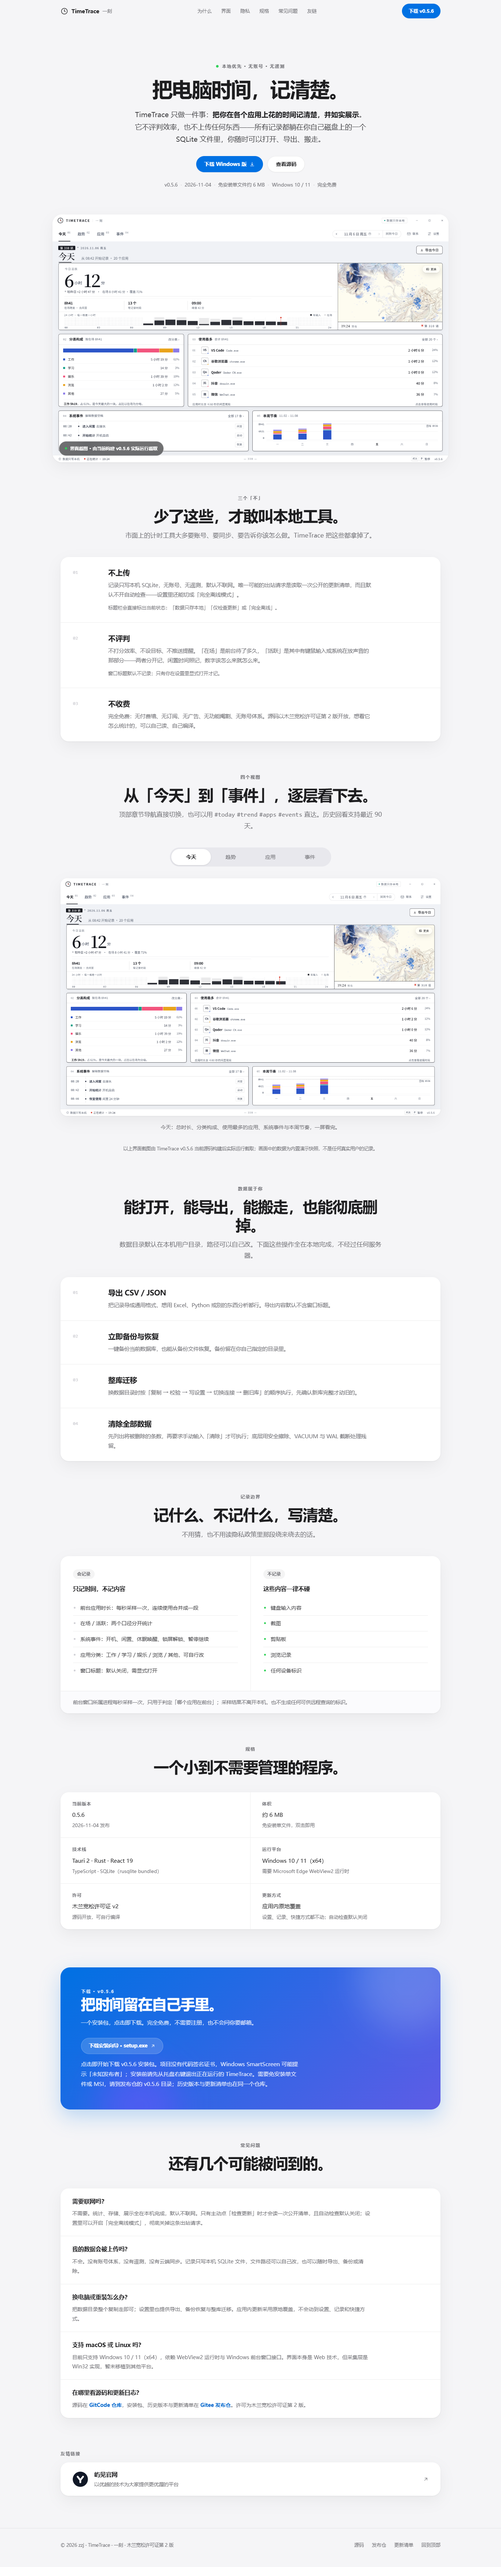
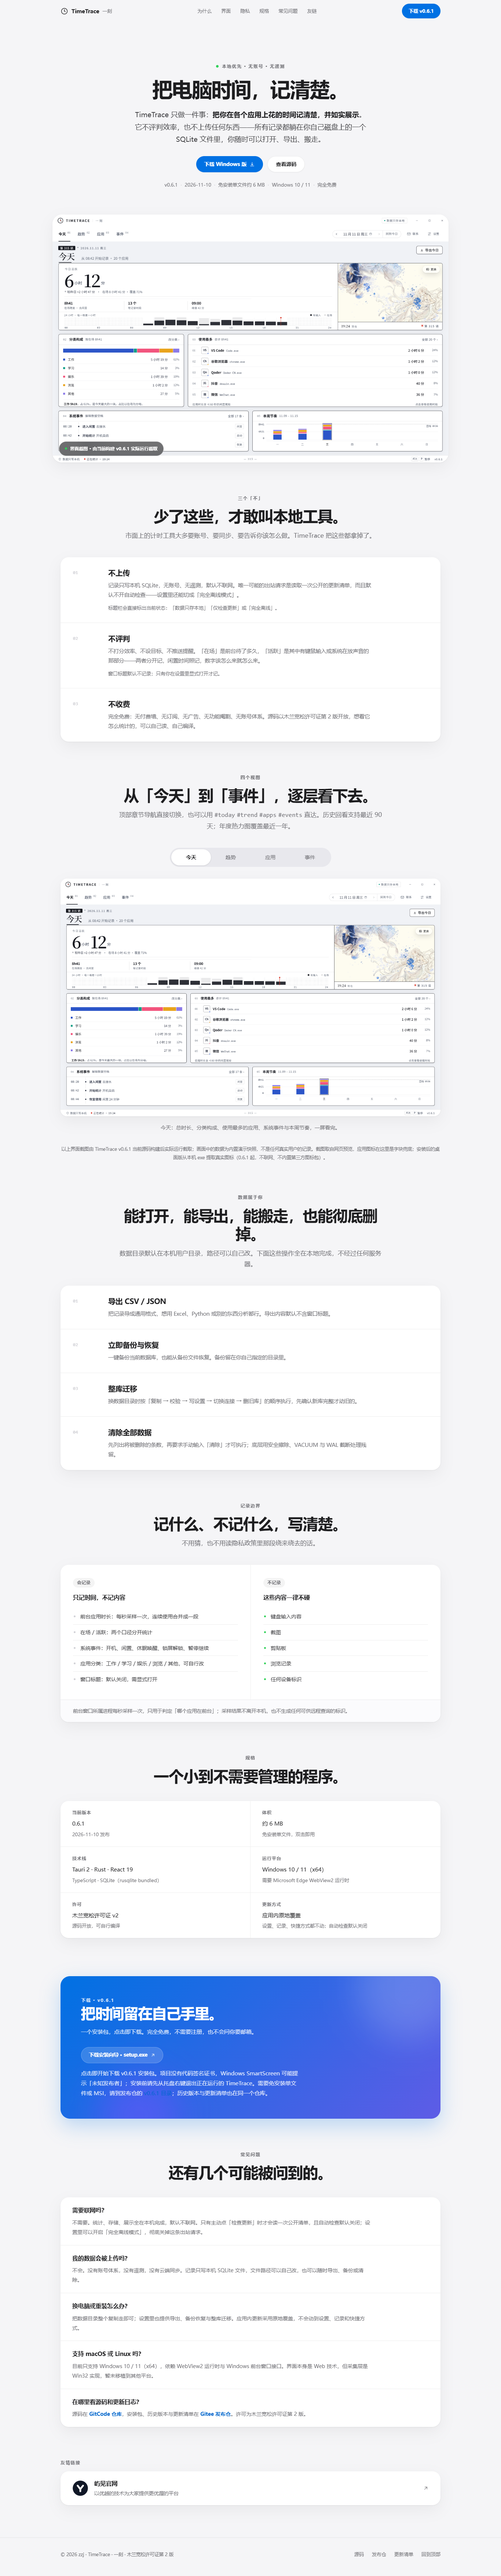
更新落地页到 v0.6.1：版本、直链、截图与发版门禁
- index.html：版本号、三处下载直链、发布仓目录链接、规格表、截图徽标
  统一到 0.6.1；补充网页预览下应用图标为字块兜底的诚实说明
- README.md / HANDOFF.md：线上地址表与「可核对事实」同步到 0.6.1
- assets/screens：从当前源码重建 dist 后重截四视图，状态栏 v0.6.1、pageerror 0
- screenshots：重截三档整页、首屏与友链特写
- _workflow/check_release.py：新增发版一致性硬断言，版本真源为 latest.json
- _workflow/sync_single_setup.py：直链改为从页面动态读取，修复写死 0.5.6 的假红；
  已改写的文档片段跳过且不重写，避免无关字节变化

验证：
- check_release 21/21 PASS；设计包 strict FAIL 0 / WARN 0 / PASS 7
- 三档视口 1366/1440/1920 无横向溢出、图片 6/6、交互切换正常、error 0
- 反向验证：改坏直链 → 断言变红 2 项，字节级恢复 → 变绿，sha256 前后一致
- v0.6.1 安装包直链实查 200 / 3,131,304 字节，SHA256 与 latest.json 一致

@author zzj

diff --git a/index.html b/index.html
@@ -276,7 +276,7 @@ footer{margin-top:var(--gap-section);border-top:1px solid var(--hairline);paddin
       <a href="#faq">常见问题</a>
       <a href="#friends">友链</a>
     </nav>
-    <a class="btn btn-primary" href="https://gitee.com/zzjzgz/time-trace-code/raw/master/releases/v0.6.0/TimeTrace_0.6.0_x64-setup.exe" target="_blank" rel="noopener noreferrer">下载 v0.6.0</a>
+    <a class="btn btn-primary" href="https://gitee.com/zzjzgz/time-trace-code/raw/master/releases/v0.6.1/TimeTrace_0.6.1_x64-setup.exe" target="_blank" rel="noopener noreferrer">下载 v0.6.1</a>
   </div>
 </header>
 
@@ -289,17 +289,17 @@ footer{margin-top:var(--gap-section);border-top:1px solid var(--hairline);paddin
       <h1 id="heroTitle">把电脑时间，记清楚。</h1>
       <p class="lede">TimeTrace 只做一件事：<strong>把你在各个应用上花的时间记清楚，并如实展示</strong>。它不评判效率，也不上传任何东西——所有记录都躺在你自己磁盘上的一个 SQLite 文件里，你随时可以打开、导出、搬走。</p>
       <div class="hero-actions">
-        <a class="btn btn-primary" href="https://gitee.com/zzjzgz/time-trace-code/raw/master/releases/v0.6.0/TimeTrace_0.6.0_x64-setup.exe" target="_blank" rel="noopener noreferrer">下载 Windows 版
+        <a class="btn btn-primary" href="https://gitee.com/zzjzgz/time-trace-code/raw/master/releases/v0.6.1/TimeTrace_0.6.1_x64-setup.exe" target="_blank" rel="noopener noreferrer">下载 Windows 版
           <svg viewBox="0 0 24 24" fill="none" stroke="currentColor" stroke-width="1.8" stroke-linecap="round" stroke-linejoin="round" aria-hidden="true"><path d="M12 3v12m0 0 4-4m-4 4-4-4M4 19h16"/></svg>
         </a>
         <a class="btn btn-quiet" href="https://gitcode.com/weixin_51713937/TimeTrace" target="_blank" rel="noopener noreferrer">查看源码</a>
       </div>
-      <p class="hero-meta num">v0.6.0<span class="sep">·</span>2026-11-10<span class="sep">·</span>免安装单文件约 6 MB<span class="sep">·</span>Windows 10 / 11<span class="sep">·</span>完全免费</p>
+      <p class="hero-meta num">v0.6.1<span class="sep">·</span>2026-11-10<span class="sep">·</span>免安装单文件约 6 MB<span class="sep">·</span>Windows 10 / 11<span class="sep">·</span>完全免费</p>
     </div>
     <figure class="hero-art lift">
-      <img src="assets/screens/today.png" width="1440" height="900" data-img alt="TimeTrace 0.6.0「今天」视图：今日总时长 6 时 12 分、分类构成、使用最多的应用、系统事件与本周节奏">
+      <img src="assets/screens/today.png" width="1440" height="900" data-img alt="TimeTrace 0.6.1「今天」视图：今日总时长 6 时 12 分、分类构成、使用最多的应用、系统事件与本周节奏">
       <div class="img-fallback" role="status"><span>界面预览未能加载。</span><a href="https://gitee.com/zzjzgz/time-trace-code" target="_blank" rel="noopener noreferrer">到发布仓查看版本说明</a></div>
-      <figcaption class="source-badge"><span class="mark" aria-hidden="true"></span>界面截图 · 由当前构建 v0.6.0 实际运行截取</figcaption>
+      <figcaption class="source-badge"><span class="mark" aria-hidden="true"></span>界面截图 · 由当前构建 v0.6.1 实际运行截取</figcaption>
     </figure>
   </section>
 
@@ -356,10 +356,10 @@ footer{margin-top:var(--gap-section);border-top:1px solid var(--hairline);paddin
       <img src="assets/screens/trend.png" width="1440" height="900" data-img alt="趋势视图（年）：年度活跃热力图、常用应用 Top 8、时段分布与全年分类构成">
       <img src="assets/screens/apps.png" width="1440" height="900" data-img alt="应用视图：按应用排行的时长列表">
       <img src="assets/screens/events.png" width="1440" height="900" data-img alt="事件视图：按时间顺序排列的系统事件流">
-      <div class="img-fallback" role="status"><span>界面预览未能加载。</span><a href="https://gitee.com/zzjzgz/time-trace-code/tree/master/releases/v0.6.0" target="_blank" rel="noopener noreferrer">到发布仓查看版本说明</a></div>
+      <div class="img-fallback" role="status"><span>界面预览未能加载。</span><a href="https://gitee.com/zzjzgz/time-trace-code/tree/master/releases/v0.6.1" target="_blank" rel="noopener noreferrer">到发布仓查看版本说明</a></div>
     </div>
     <p class="screen-cap" id="viewCap">今天：总时长、分类构成、使用最多的应用、系统事件与本周节奏，一屏看完。</p>
-    <p class="screen-note">以上界面截图由 TimeTrace v0.6.0 当前源码构建后实际运行截取；画面中的数据为内置演示快照，不是任何真实用户的记录。</p>
+    <p class="screen-note">以上界面截图由 TimeTrace v0.6.1 当前源码构建后实际运行截取；画面中的数据为内置演示快照，不是任何真实用户的记录。截图取自网页预览，应用图标在这里是字块兜底；安装后的桌面版从本机 exe 提取真实图标（0.6.1 起，不联网、不内置第三方图标包）。</p>
   </section>
 
   <!-- 数据属于你 -->
@@ -420,7 +420,7 @@ footer{margin-top:var(--gap-section);border-top:1px solid var(--hairline);paddin
       <h2 id="specTitle">一个小到不需要管理的程序。</h2>
     </div>
     <dl class="panel spec-grid">
-      <div class="spec-item"><dt>当前版本</dt><dd class="num">0.6.0<small>2026-11-10 发布</small></dd></div>
+      <div class="spec-item"><dt>当前版本</dt><dd class="num">0.6.1<small>2026-11-10 发布</small></dd></div>
       <div class="spec-item"><dt>体积</dt><dd>约 6 MB<small>免安装单文件，双击即用</small></dd></div>
       <div class="spec-item"><dt>技术栈</dt><dd>Tauri 2 · Rust · React 19<small>TypeScript · SQLite（rusqlite bundled）</small></dd></div>
       <div class="spec-item"><dt>运行平台</dt><dd>Windows 10 / 11（x64）<small>需要 Microsoft Edge WebView2 运行时</small></dd></div>
@@ -434,15 +434,15 @@ footer{margin-top:var(--gap-section);border-top:1px solid var(--hairline);paddin
     <div class="cta">
       <span class="orb orb-a" aria-hidden="true"></span><span class="orb orb-b" aria-hidden="true"></span>
       <div class="cta-in">
-        <div class="kicker">下载 · v0.6.0</div>
+        <div class="kicker">下载 · v0.6.1</div>
         <h2 id="downloadTitle">把时间留在自己手里。</h2>
         <p>一个安装包，点击即下载。完全免费，不需要注册，也不会问你要邮箱。</p>
         <div class="cta-actions">
-          <a class="glass-chip" href="https://gitee.com/zzjzgz/time-trace-code/raw/master/releases/v0.6.0/TimeTrace_0.6.0_x64-setup.exe" target="_blank" rel="noopener noreferrer">下载安装向导 · setup.exe
+          <a class="glass-chip" href="https://gitee.com/zzjzgz/time-trace-code/raw/master/releases/v0.6.1/TimeTrace_0.6.1_x64-setup.exe" target="_blank" rel="noopener noreferrer">下载安装向导 · setup.exe
             <svg viewBox="0 0 24 24" fill="none" stroke="currentColor" stroke-width="1.8" stroke-linecap="round" stroke-linejoin="round" aria-hidden="true"><path d="M7 17 17 7M8 7h9v9"/></svg>
           </a>
         </div>
-        <p class="cta-note">点击即开始下载 v0.6.0 安装包。项目没有代码签名证书，Windows SmartScreen 可能提示「未知发布者」；安装前请先从托盘右键退出正在运行的 TimeTrace。需要免安装单文件或 MSI，请到发布仓的 <a href="https://gitee.com/zzjzgz/time-trace-code/tree/master/releases/v0.6.0" target="_blank" rel="noopener noreferrer">v0.6.0 目录</a>；历史版本与更新清单也在同一个仓库。</p>
+        <p class="cta-note">点击即开始下载 v0.6.1 安装包。项目没有代码签名证书，Windows SmartScreen 可能提示「未知发布者」；安装前请先从托盘右键退出正在运行的 TimeTrace。需要免安装单文件或 MSI，请到发布仓的 <a href="https://gitee.com/zzjzgz/time-trace-code/tree/master/releases/v0.6.1" target="_blank" rel="noopener noreferrer">v0.6.1 目录</a>；历史版本与更新清单也在同一个仓库。</p>
       </div>
     </div>
   </section>

diff --git a/_workflow/check_release.py b/_workflow/check_release.py
@@ -1,0 +1,103 @@
+#!/usr/bin/env python3
+# -*- coding: utf-8 -*-
+"""发版一致性硬断言（可复跑，幂等，只读）。
+
+页面里的「版本号 / 三处下载直链 / 目录链接 / 截图来源 / README 地址表」是绑定的，
+只改其中一处，页面就会说谎。本脚本把这些约束钉住。
+
+版本唯一真源：相邻发布仓的 latest.json；不存在时退回 index.html 的 hero-meta。
+
+用法：python _workflow/check_release.py
+"""
+import hashlib
+import json
+import re
+import sys
+from pathlib import Path
+
+ROOT = Path(__file__).resolve().parent.parent
+HTML_PATH = ROOT / "index.html"
+README_PATH = ROOT / "README.md"
+RELEASE_REPO = ROOT.parent / "time-trace-code"
+LATEST = RELEASE_REPO / "latest.json"
+
+html = HTML_PATH.read_text(encoding="utf-8")
+readme = README_PATH.read_text(encoding="utf-8")
+
+meta = json.loads(LATEST.read_text(encoding="utf-8")) if LATEST.exists() else None
+if meta:
+    V = meta["version"]
+    origin = str(LATEST)
+else:
+    m = re.search(r'class="hero-meta num">v(0\.\d+\.\d+)', html)
+    if not m:
+        sys.exit("断言失败：既无 latest.json，也读不到页面版本号")
+    V = m.group(1)
+    origin = "index.html hero-meta（latest.json 缺失）"
+
+DL = f"https://gitee.com/zzjzgz/time-trace-code/raw/master/releases/v{V}/TimeTrace_{V}_x64-setup.exe"
+DIR = f"https://gitee.com/zzjzgz/time-trace-code/tree/master/releases/v{V}"
+
+checks = []
+
+
+def check(name, ok, detail=""):
+    checks.append((name, bool(ok), detail))
+
+
+# 1. 页面正文里出现的版本号必须只有一个
+versions = set(re.findall(r"0\.\d+\.\d+", html))
+check("页面版本号唯一", versions == {V}, f"页面出现 {sorted(versions)}，期望 {{{V}}}")
+
+# 2. 三处下载入口共用同一条已核实直链
+hrefs = re.findall(r'href="([^"]+)"', html)
+setup_hrefs = [h for h in hrefs if h.endswith("_x64-setup.exe")]
+check("三处直链完全一致", len(setup_hrefs) == 3 and set(setup_hrefs) == {DL},
+      f"命中 {len(setup_hrefs)} 处：{sorted(set(setup_hrefs))}")
+check('无 href="#download" 残留', 'href="#download"' not in html)
+check("下载区只有一个按钮", html.count('class="glass-chip"') == 1)
+
+# 3. 所有发布仓目录链接都指向同一版本
+dir_hrefs = [h for h in hrefs if "/tree/master/releases/v" in h]
+check("目录链接版本一致", len(dir_hrefs) >= 2 and set(dir_hrefs) == {DIR},
+      f"命中 {len(dir_hrefs)} 处：{sorted(set(dir_hrefs))}")
+
+# 4. 带版本号的关键文案
+check("导航按钮", f"下载 v{V}</a>" in html)
+check("下载区 kicker", f"下载 · v{V}" in html)
+check("规格表当前版本", f'<dd class="num">{V}<small>' in html)
+check("Hero 事实行", f'class="hero-meta num">v{V}<span class="sep">' in html)
+check("截图来源徽标", f"由当前构建 v{V} 实际运行截取" in html)
+check("四视图图注", f"TimeTrace v{V} 当前源码构建后实际运行截取" in html)
+
+# 5. README 地址表与页面同源
+check("README 当前版本", f"| 当前版本 | {V}（" in readme)
+check("README 直链", f"<{DL}>" in readme)
+check("README 截图来源版本", f"**v{V} 当前源码重新构建后实际运行截取**" in readme)
+
+# 6. 四张产品图必须是真实文件
+for name in ("today", "trend", "apps", "events"):
+    p = ROOT / "assets" / "screens" / f"{name}.png"
+    check(f"截图 {name}.png", p.exists() and p.stat().st_size > 10000,
+          f"{p.stat().st_size} bytes" if p.exists() else "缺失")
+
+# 7. 与发布仓清单交叉核对（清单存在时才检查）
+if meta:
+    check("latest.json 直链与页面一致", meta.get("url") == DL, str(meta.get("url")))
+    date = re.search(r'class="hero-meta num">v0\.\d+\.\d+<span class="sep">·</span>([\d-]+)', html)
+    check("页面发布日期与清单一致", bool(date) and date.group(1) == meta.get("publishedAt"),
+          f"页面 {date.group(1) if date else '未读到'} / 清单 {meta.get('publishedAt')}")
+    setup = RELEASE_REPO / "releases" / f"v{V}" / f"TimeTrace_{V}_x64-setup.exe"
+    if setup.exists():
+        digest = hashlib.sha256(setup.read_bytes()).hexdigest()
+        check("本地安装包 SHA256 与清单一致", digest == meta.get("sha256"), digest)
+    else:
+        check("本地安装包 SHA256 与清单一致", True, "本地产物不存在，跳过")
+
+failed = [c for c in checks if not c[1]]
+print(f"版本真源：{origin} → {V}")
+for name, ok, detail in checks:
+    print(f"  [{'PASS' if ok else 'FAIL'}] {name}" + (f" · {detail}" if detail else ""))
+print(f"合计 {len(checks)} 项，PASS {len(checks) - len(failed)} / FAIL {len(failed)}")
+print("结论：" + ("PASS" if not failed else "FAIL"))
+sys.exit(0 if not failed else 1)

diff --git a/_workflow/sync_single_setup.py b/_workflow/sync_single_setup.py
@@ -10,19 +10,27 @@
 并把全部交接文档的「三种产物 / 三个按钮 / 目录页」口径同步为单 setup 口径。
 用法：python _workflow/sync_single_setup.py（幂等，可复跑）
 """
+import re
 from pathlib import Path
 
 ROOT = Path(__file__).resolve().parent.parent
+# 仅用于 2026-11-06 那次历史文档口径迁移（REPLACEMENTS 里的旧文案），
+# 不代表当前直链；当前直链由 verify_index() 从 index.html 动态读取。
 URL = "https://gitee.com/zzjzgz/time-trace-code/releases/download/TimeTrace_0.5.6/TimeTrace_0.5.6_x64-setup.exe"
 
 
 def verify_index():
     html = (ROOT / "index.html").read_text(encoding="utf-8")
-    n = html.count(f'href="{URL}"')
-    assert n == 3, f"直链入口数量应为 3，实际 {n}"
+    links = [h for h in re.findall(r'href="([^"]+)"', html) if h.endswith("_x64-setup.exe")]
+    assert len(links) == 3, f"直链入口数量应为 3，实际 {len(links)}"
+    assert len(set(links)) == 1, f"三处直链应一致，实际 {sorted(set(links))}"
+    assert re.fullmatch(
+        r"https://gitee\.com/zzjzgz/time-trace-code/raw/master/releases/v0\.\d+\.\d+/TimeTrace_0\.\d+\.\d+_x64-setup\.exe",
+        links[0],
+    ), f"直链格式异常：{links[0]}"
     assert 'href="#download"' not in html, "仍有入口指向页内锚点而非直接下载"
     assert html.count('class="glass-chip"') == 1, "下载区应只剩 1 个玻璃按钮"
-    return n
+    return len(links)
 
 
 REPLACEMENTS = {
@@ -102,6 +110,7 @@ n_links = verify_index()
 print(f"index.html 硬断言 PASS：直链入口 {n_links} 处、无 #download 残留、下载区 1 个按钮")
 
 total = 0
+skipped = 0
 for rel, pairs in REPLACEMENTS.items():
     path = ROOT / rel
     text = path.read_text(encoding="utf-8")
@@ -110,11 +119,17 @@ for rel, pairs in REPLACEMENTS.items():
         if new in text:
             continue
         count = text.count(old)
+        if count == 0:
+            # 该文档已由后续发版改写（例如 HANDOFF 的可核对事实表），
+            # 历史口径片段不再存在，视为已同步，不再报错也不重写文件。
+            skipped += 1
+            continue
         if count != 1:
             raise SystemExit(f"断言失败：{rel} 中该片段命中 {count} 次（应为 1）：{old[:60]}")
         text = text.replace(old, new, 1)
         applied += 1
         total += 1
-    path.write_text(text, encoding="utf-8")
+    if applied:
+        path.write_text(text, encoding="utf-8")
     print(f"  {rel}: 本次同步 {applied}/{len(pairs)} 处")
-print(f"共同步 {total} 处，覆盖 {len(REPLACEMENTS)} 个文档")
+print(f"共同步 {total} 处、跳过已改写片段 {skipped} 处，覆盖 {len(REPLACEMENTS)} 个文档")

diff --git a/HANDOFF.md b/HANDOFF.md
@@ -84,13 +84,13 @@
 
 | 字段 | 值 | 来源 |
 |---|---|---|
-| 版本 | 0.5.6 | `app/package.json`、`src-tauri/Cargo.toml`、`tauri.conf.json`、`latest.json`、CHANGELOG |
-| 发布日期 | 2026-11-04 | CHANGELOG / 发布仓 |
+| 版本 | 0.6.1 | `app/package.json`、`src-tauri/Cargo.toml`、`tauri.conf.json`、`latest.json`、CHANGELOG |
+| 发布日期 | 2026-11-10 | CHANGELOG / 发布仓 `latest.json` |
 | 技术栈 | Tauri 2 · Rust · React 19 · TypeScript · SQLite | `TimeTrace/README.md` |
 | 四视图 | 今天 / 趋势 / 应用 / 事件 | `app/src/components/ChapterNav.tsx` |
 | 记录边界 | README「它记录什么」表 | `TimeTrace/README.md` |
-| 安装包直链 | Gitee Releases `TimeTrace_0.5.6/TimeTrace_0.5.6_x64-setup.exe` | 用户指定；实查 302 → foruda.gitee.com 附件 |
-| 其他产物 | Gitee `releases/v0.5.6` 目录 | 仅在 CTA 提示文案中提及；同模式直链实查 404，不设按钮 |
+| 安装包直链 | Gitee `releases/v0.6.1/TimeTrace_0.6.1_x64-setup.exe`（raw） | 实查 200、3,131,304 字节；SHA256 与 `latest.json` 一致 |
+| 其他产物 | Gitee `releases/v0.6.1` 目录 | 仅在 CTA 提示文案中给出目录页；不设按钮 |
 | 许可 | 木兰宽松许可证 v2 | `LICENSE` |
 | 友链 | 屿见官网 · `https://yujian.cystation.site` · 以优越的技术为大家提供更优渥的平台 | 用户提供，地址实查 200 |
 
@@ -105,7 +105,7 @@
 ## 9. 已知限制
 
 1. **脚本 WARN 项**：`check_design_pack.py --strict` 复跑结果 WARN 0（无原文可抄）；FAIL 0，PASS 见 `_workflow/gate-report.md`。
-2. 顶层 `TimeTrace/README.md` 的下载表仍写 **0.5.5**，与 `latest.json` / `package.json` / `Cargo.toml` 的 **0.5.6** 不一致；本页按后者，建议维护者同步 README。
+2. 顶层 `TimeTrace/README.md` 的下载表仍写 **0.5.5**，与 `latest.json` / `package.json` / `Cargo.toml` 的 **0.6.1** 不一致；本页按后者，建议维护者同步 README。
 3. 导航按钮视觉高度 40px，低于 44px 建议值；放大到 64px 导航高度即可消除。
 4. 外链（Gitee / GitCode / 更新清单）不可达时页面不做运行时探测与提示，交给浏览器处理。
 5. 界面截图使用内置演示快照，页面已明确标注「不是任何真实用户的记录」；若日后换成真实数据截图，需同步改图注。

diff --git a/README.md b/README.md
@@ -11,8 +11,8 @@ TimeTrace 是一款**本地优先的 Windows 应用使用时长统计工具**：
 | 官网 | <https://zzjzgz.github.io> |
 | 应用源码 | <https://gitcode.com/weixin_51713937/TimeTrace> |
 | 安装包 / 历史版本 / 更新清单 | <https://gitee.com/zzjzgz/time-trace-code> |
-| v0.6.0 安装向导（直链） | <https://gitee.com/zzjzgz/time-trace-code/raw/master/releases/v0.6.0/TimeTrace_0.6.0_x64-setup.exe> |
-| 当前版本 | 0.6.0（2026-11-10） |
+| v0.6.1 安装向导（直链） | <https://gitee.com/zzjzgz/time-trace-code/raw/master/releases/v0.6.1/TimeTrace_0.6.1_x64-setup.exe> |
+| 当前版本 | 0.6.1（2026-11-10） |
 | 源码许可 | 木兰宽松许可证第 2 版 |
 
 ## 仓库结构
@@ -46,7 +46,7 @@ python -m http.server 8080
 
 ## 截图从哪来
 
-`assets/screens/` 不是历史遗留素材，是从 TimeTrace **v0.6.0 当前源码重新构建后实际运行截取**的：
+`assets/screens/` 不是历史遗留素材，是从 TimeTrace **v0.6.1 当前源码重新构建后实际运行截取**的：
 
 ```bash
 # 在 TimeTrace/app 目录下
@@ -59,12 +59,13 @@ node _workflow/capture-screens.cjs   # 截四张产品界面图
 node _workflow/capture-page.cjs      # 截官网三档整页图
 ```
 
-画面中的数据为内置演示快照，**不是任何真实用户的记录**。
+画面中的数据为内置演示快照，**不是任何真实用户的记录**。截图取自网页预览：应用图标需要桌面运行时从本机 exe 提取，所以预览里显示的是字块兜底，不是 0.6.1 新功能的实际效果。
 
 ## 验证
 
 ```bash
 python _workflow/reverse_verify.py      # 反向验证：改坏变红 → 字节级恢复变绿
+python _workflow/check_release.py       # 版本、直链、目录、截图来源一致性硬断言
 python _workflow/sync_single_setup.py   # 下载入口硬断言
 python _workflow/sync_friends.py        # 友链位置、banner 入口、logo 本地化硬断言
 python _workflow/extract_tokens.py      # 从 :root 重生成 tokens.json
